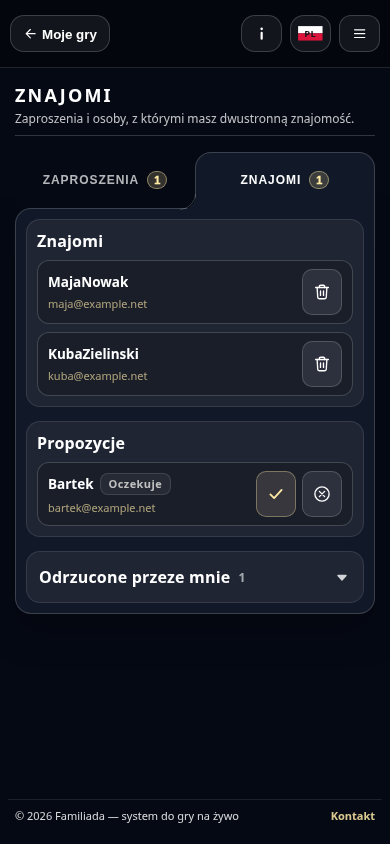
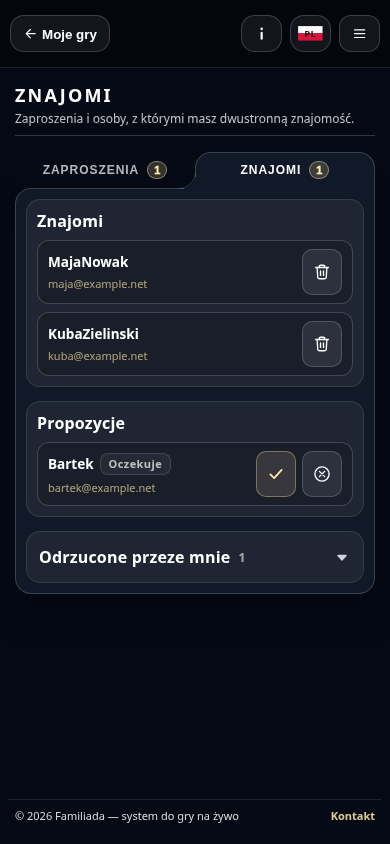
fix(contacts): keep mobile protrusions compact at 36px

diff --git a/tests/e2e/friends.spec.js b/tests/e2e/friends.spec.js
@@ -273,6 +273,7 @@ test("kontakty: wypustki mobilne, liczniki i stan zakładek", async ({ browser }
       const invite = owner.page.locator('[data-contact-tab="invite"]');
       const received = owner.page.locator('[data-contact-tab="received"]');
       await expect(invite).toHaveAttribute("aria-selected", "true");
+      expect((await invite.boundingBox()).height).toBe(36);
       await expect(owner.page.locator("#contactsInvite")).toBeVisible();
       await expect(owner.page.locator("#contactsReceived")).toBeHidden();
       await expect(received.locator(".badge")).toHaveText("1");

diff --git a/web/shared/css/contacts.css b/web/shared/css/contacts.css
@@ -22,7 +22,7 @@
 }
 
 /* Wypustki korzystają wprost z games.css; na komputerze obie kolumny. */
-.contacts-tabs{ margin: 0; }
+.contacts-tabs{ margin: 0; --tab-height: 36px; --tab-extra: 1px; }
 .contacts-tabs > .tabs-strip{ display: none; }
 .contacts-card[hidden]{ display: none; }
 @media (max-width: 720px){

diff --git a/docs/wdrozenia.md b/docs/wdrozenia.md
@@ -399,3 +399,5 @@ Stan szczegółowy:
 | 2026-10-11 | Kontakty / status active zamknięty produkcyjnie | Main 38147553964 ✓: kontrolowany przegląd Znajomych/Subskrybentów 1400/390, bez etykiety/rzędu active, przycisk usuwania obecny, oczekujące/odrzucone oznaczone. Unit 410/410; branch 38147347570 ✓, Pages 38147497547 ✓. | Gotowe. Cztery zrzuty active-*; zakładki z wypustkami i wspólne puste listy pozostają otwarte, tak samo paczki Baz/Subskrybentów. |
 
 | 2026-10-11 | Powrót do kolejności E19 §5 | Użytkownik polecił wrócić do planu. Pierwszy brak pkt 2: mobilne wypustki kontaktów. Implementacja na branchu: CSS Gier, tabs.js/PAGES, liczniki, URL/powroty/focus Go, dwa panele desktop/jeden mobile; zachowanie formularza, keyboard/ARIA, osiem zrzutów. Unit 411/411, lokalny renderer bez overflow ✓. | Branch E2E kontaktów (nowy test zakładek + regresja active/odmowy), potem main. Następnie pkt 3: odmowy/cooldowny Subskrybentów, pkt 4 Bazy, pkt 5 Ankiety. |
+
+| 2026-10-11 | Kontakty / wysokość wypustek | Branch 38148022606 ✓: 3/3 (zakładki, active, odmowy). Użytkownik zgłosił zbyt wysokie wypustki. games.css ma bazowe 36 px i stare mobile 56 px; kontakty ustawiają 36 px/extra 1 px. Test mierzy wysokość, zrzuty odświeżane. | Powtórzyć branch po korekcie wysokości przed Pages; wcześniejszy zielony przebieg nie obejmuje tej korekty. |

diff --git a/docs/ujednolicenie-wygladu.md b/docs/ujednolicenie-wygladu.md
@@ -674,3 +674,8 @@ pozwala zaprosić, przypomnieć oczekującym według flagi/limitu i usunąć/cof
 Odbiorca bez konta akceptuje/odrzuca przez dostarczony link Go z maila.
 Przy odmowie przypomnienia zabronione; po 30 dniach dopiero nowe
 zaproszenie. Liczba sekcji/zakładki nie jest plakietką przychodzących spraw.
+
+**Korekta wypustek kontaktów:** wysokość 36 px, jak zmniejszony bazowy
+wzorzec Gier; nie dziedziczyć starego mobilnego nadpisania games.css
+do 56 px. Kontakty używają tych samych kącików i CSS wypustek, z lokalnym
+ustawieniem wspólnego wymiaru 36/1 px. E2E sprawdza wysokość 36 px.
